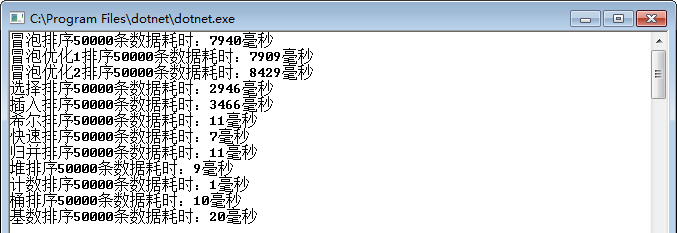
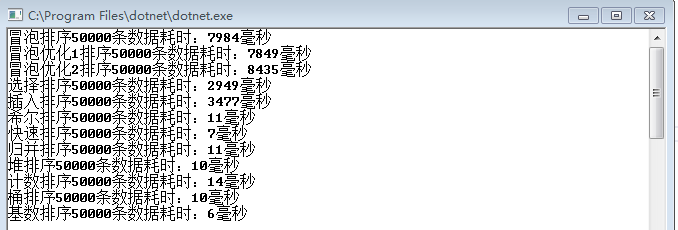
重新比较效率

diff --git a/Program.cs b/Program.cs
@@ -8,7 +8,7 @@ namespace algorithm
     {
         static void Main(string[] args)
         {
-            int length = 100;//随机条数
+            int length = 50000;//随机条数
             int[] original = GetRandomArray(length);
             //冒泡排序
             bubbleSort(original, length);
@@ -208,13 +208,13 @@ namespace algorithm
         /// </summary>
         /// <param name="length"></param>
         /// <returns></returns>
-        public static int[] GetRandomArray(int length)
+        public static int[] GetRandomArray(int length, int max = 1000000)
         {
             int[] arr = new int[length];
             Random random = new Random();
             for (int i = 0; i < length; i++)
             {
-                arr[i] = random.Next(0, length);
+                arr[i] = random.Next(0, max);
             }
             return arr;
         }
